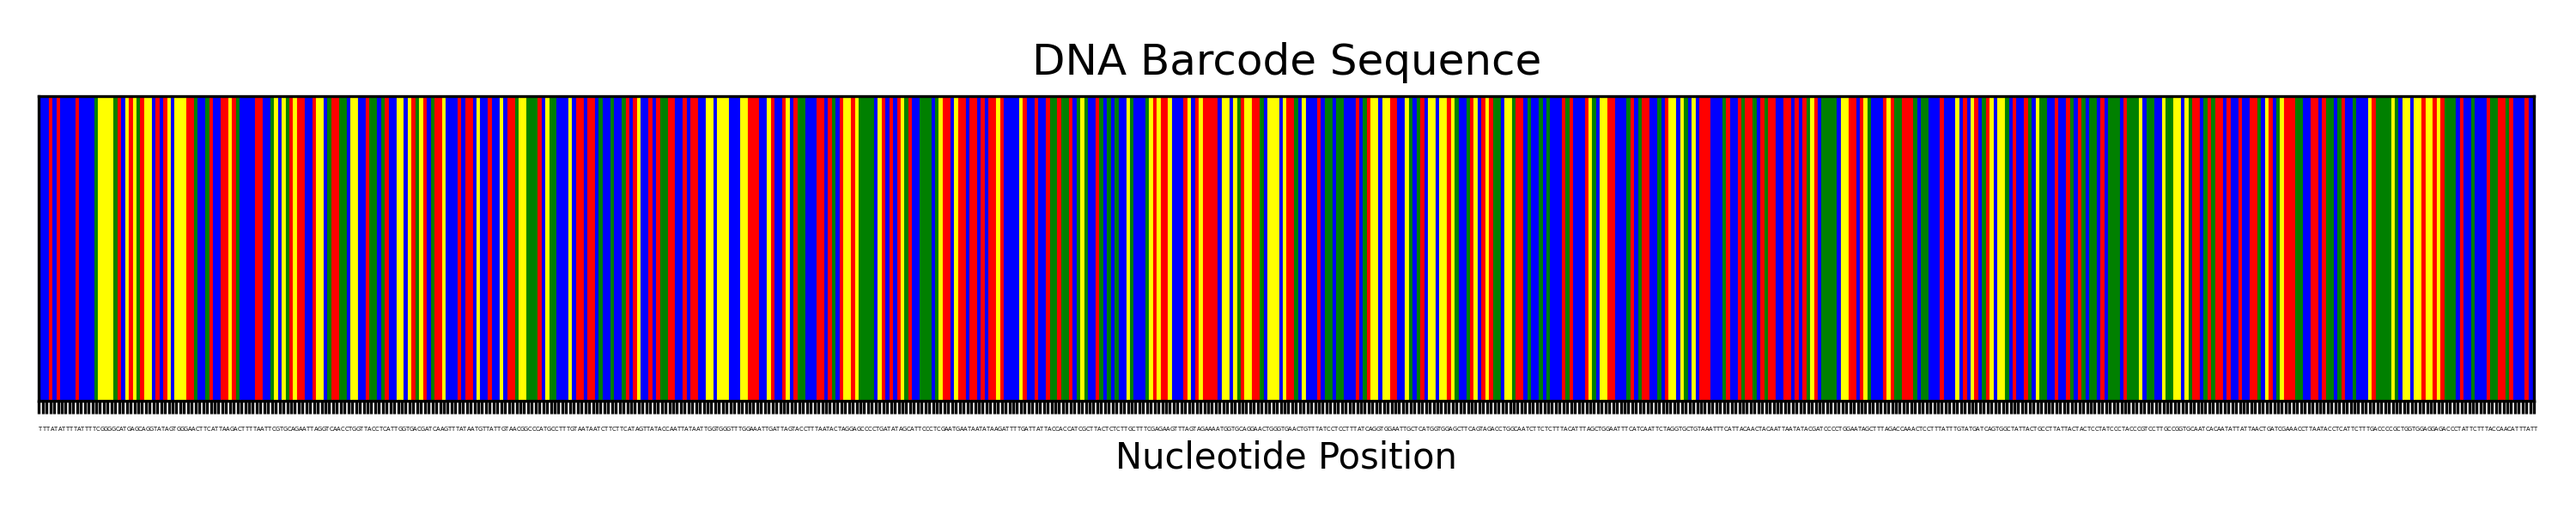
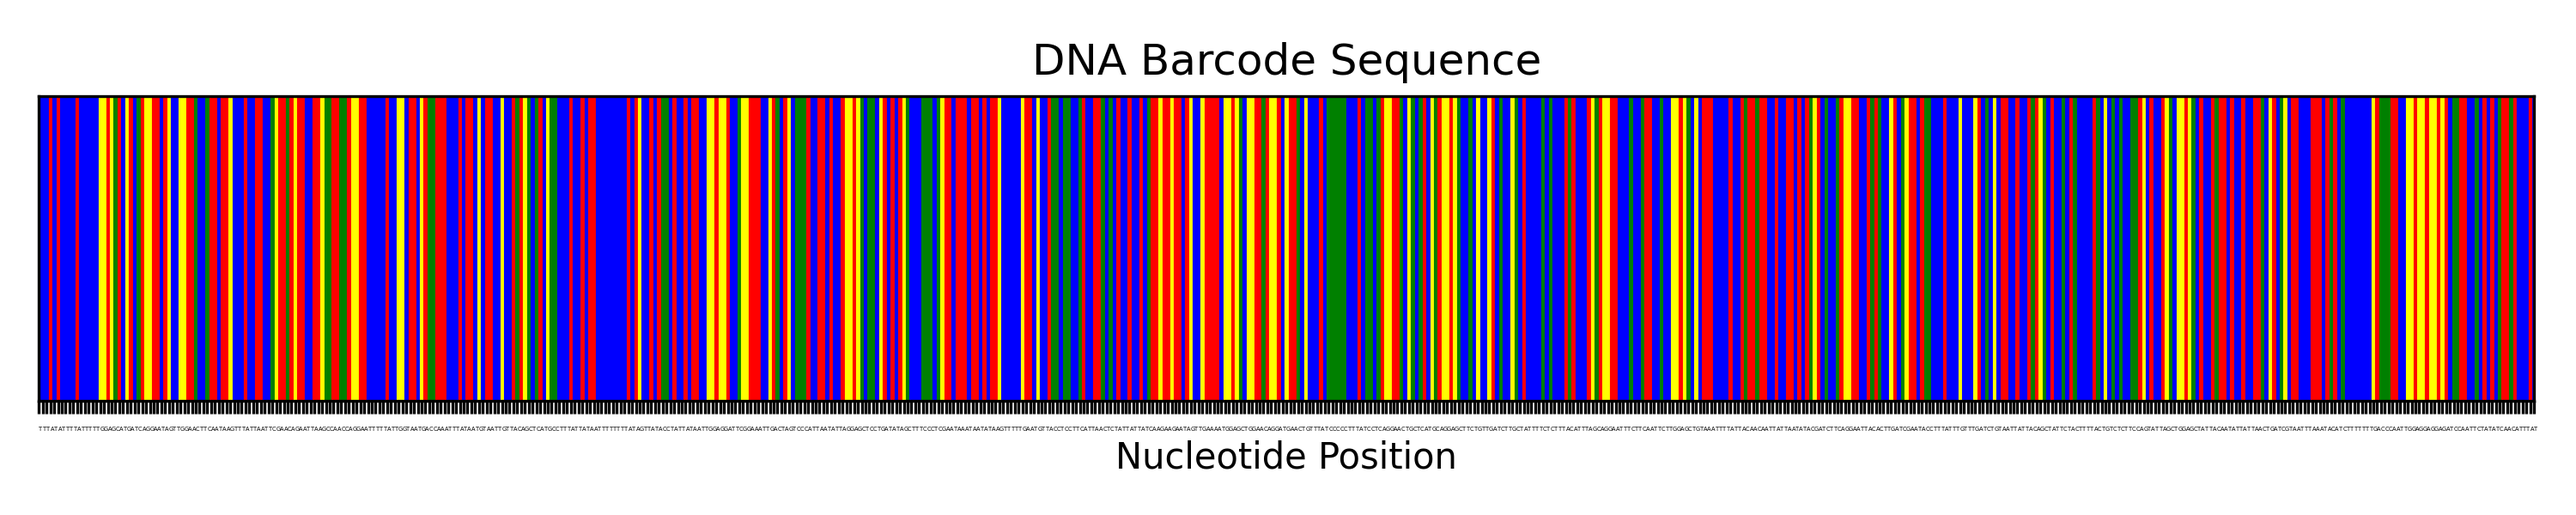
dna and bin info added

Changed region(s): [[0.031, 0.18, 0.992, 0.84]]

diff --git a/README.md b/README.md
@@ -31,7 +31,7 @@ Each record of the BIOSCAN-1M Insect dataset contains four primary attributes.
 ###### <h4> I. DNA Barcode Sequence
 The provided DNA barcode sequence showcases the arrangement of nucleotides—Adenine (A), Thymine (T), Cytosine (C), and Guanine (G)—depicted in blocks of distinct colors:
 ```
-TTTATATTTTATTTTCGGGGCATGAGCAGGTATAGTGGGAACTTCATTAAGACTTTTAATTCGTGCAGAATTAGGTCAACCTGGTTACCTCATTGGTGACGATCAAGTTTATAATGTTATTGTAACGGCCCATGCCTTTGTAATAATCTTCTTCATAGTTATACCAATTATAATTGGTGGGTTTGGAAATTGATTAGTACCTTTAATACTAGGAGCCCCTGATATAGCATTCCCTCGAATGAATAATATAAGATTTTGATTATTACCACCATCGCTTACTCTCTTGCTTTCGAGAAGTTTAGTAGAAAATGGTGCAGGAACTGGGTGAACTGTTTATCCTCCTTTATCAGGTGGAATTGCTCATGGTGGAGCTTCAGTAGACCTGGCAATCTTCTCTTTACATTTAGCTGGAATTTCATCAATTCTAGGTGCTGTAAATTTCATTACAACTACAATTAATATACGATCCCCTGGAATAGCTTTAGACCAAACTCCTTTATTTGTATGATCAGTGGCTATTACTGCCTTATTACTACTCCTATCCCTACCCGTCCTTGCCGGTGCAATCACAATATTATTAACTGATCGAAACCTTAATACCTCATTCTTTGACCCCGCTGGTGGAGGAGACCCTATTCTTTACCAACATTTATT
+TTTATATTTTATTTTTGGAGCATGATCAGGAATAGTTGGAACTTCAATAAGTTTATTAATTCGAACAGAATTAAGCCAACCAGGAATTTTTATTGGTAATGACCAAATTTATAATGTAATTGTTACAGCTCATGCCTTTATTATAATTTTTTTTATAGTTATACCTATTATAATTGGAGGATTCGGAAATTGACTAGTCCCATTAATATTAGGAGCTCCTGATATAGCTTTCCCTCGAATAAATAATATAAGTTTTTGAATGTTACCTCCTTCATTAACTCTATTATTATCAAGAAGAATAGTTGAAAATGGAGCTGGAACAGGATGAACTGTTTATCCCCCTTTATCCTCAGGAACTGCTCATGCAGGAGCTTCTGTTGATCTTGCTATTTTCTCTTTACATTTAGCAGGAATTTCTTCAATTCTTGGAGCTGTAAATTTTATTACAACAATTATTAATATACGATCTTCAGGAATTACACTTGATCGAATACCTTTATTTGTTTGATCTGTAATTATTACAGCTATTCTACTTTTACTGTCTCTTCCAGTATTAGCTGGAGCTATTACAATATTATTAACTGATCGTAATTTAAATACATCTTTTTTTGACCCAATTGGAGGAGGAGATCCAATTCTATATCAACATTTAT
 ```
 
 ![Alt Text](dataset/bioscan_images/DNA_sequence.png)
